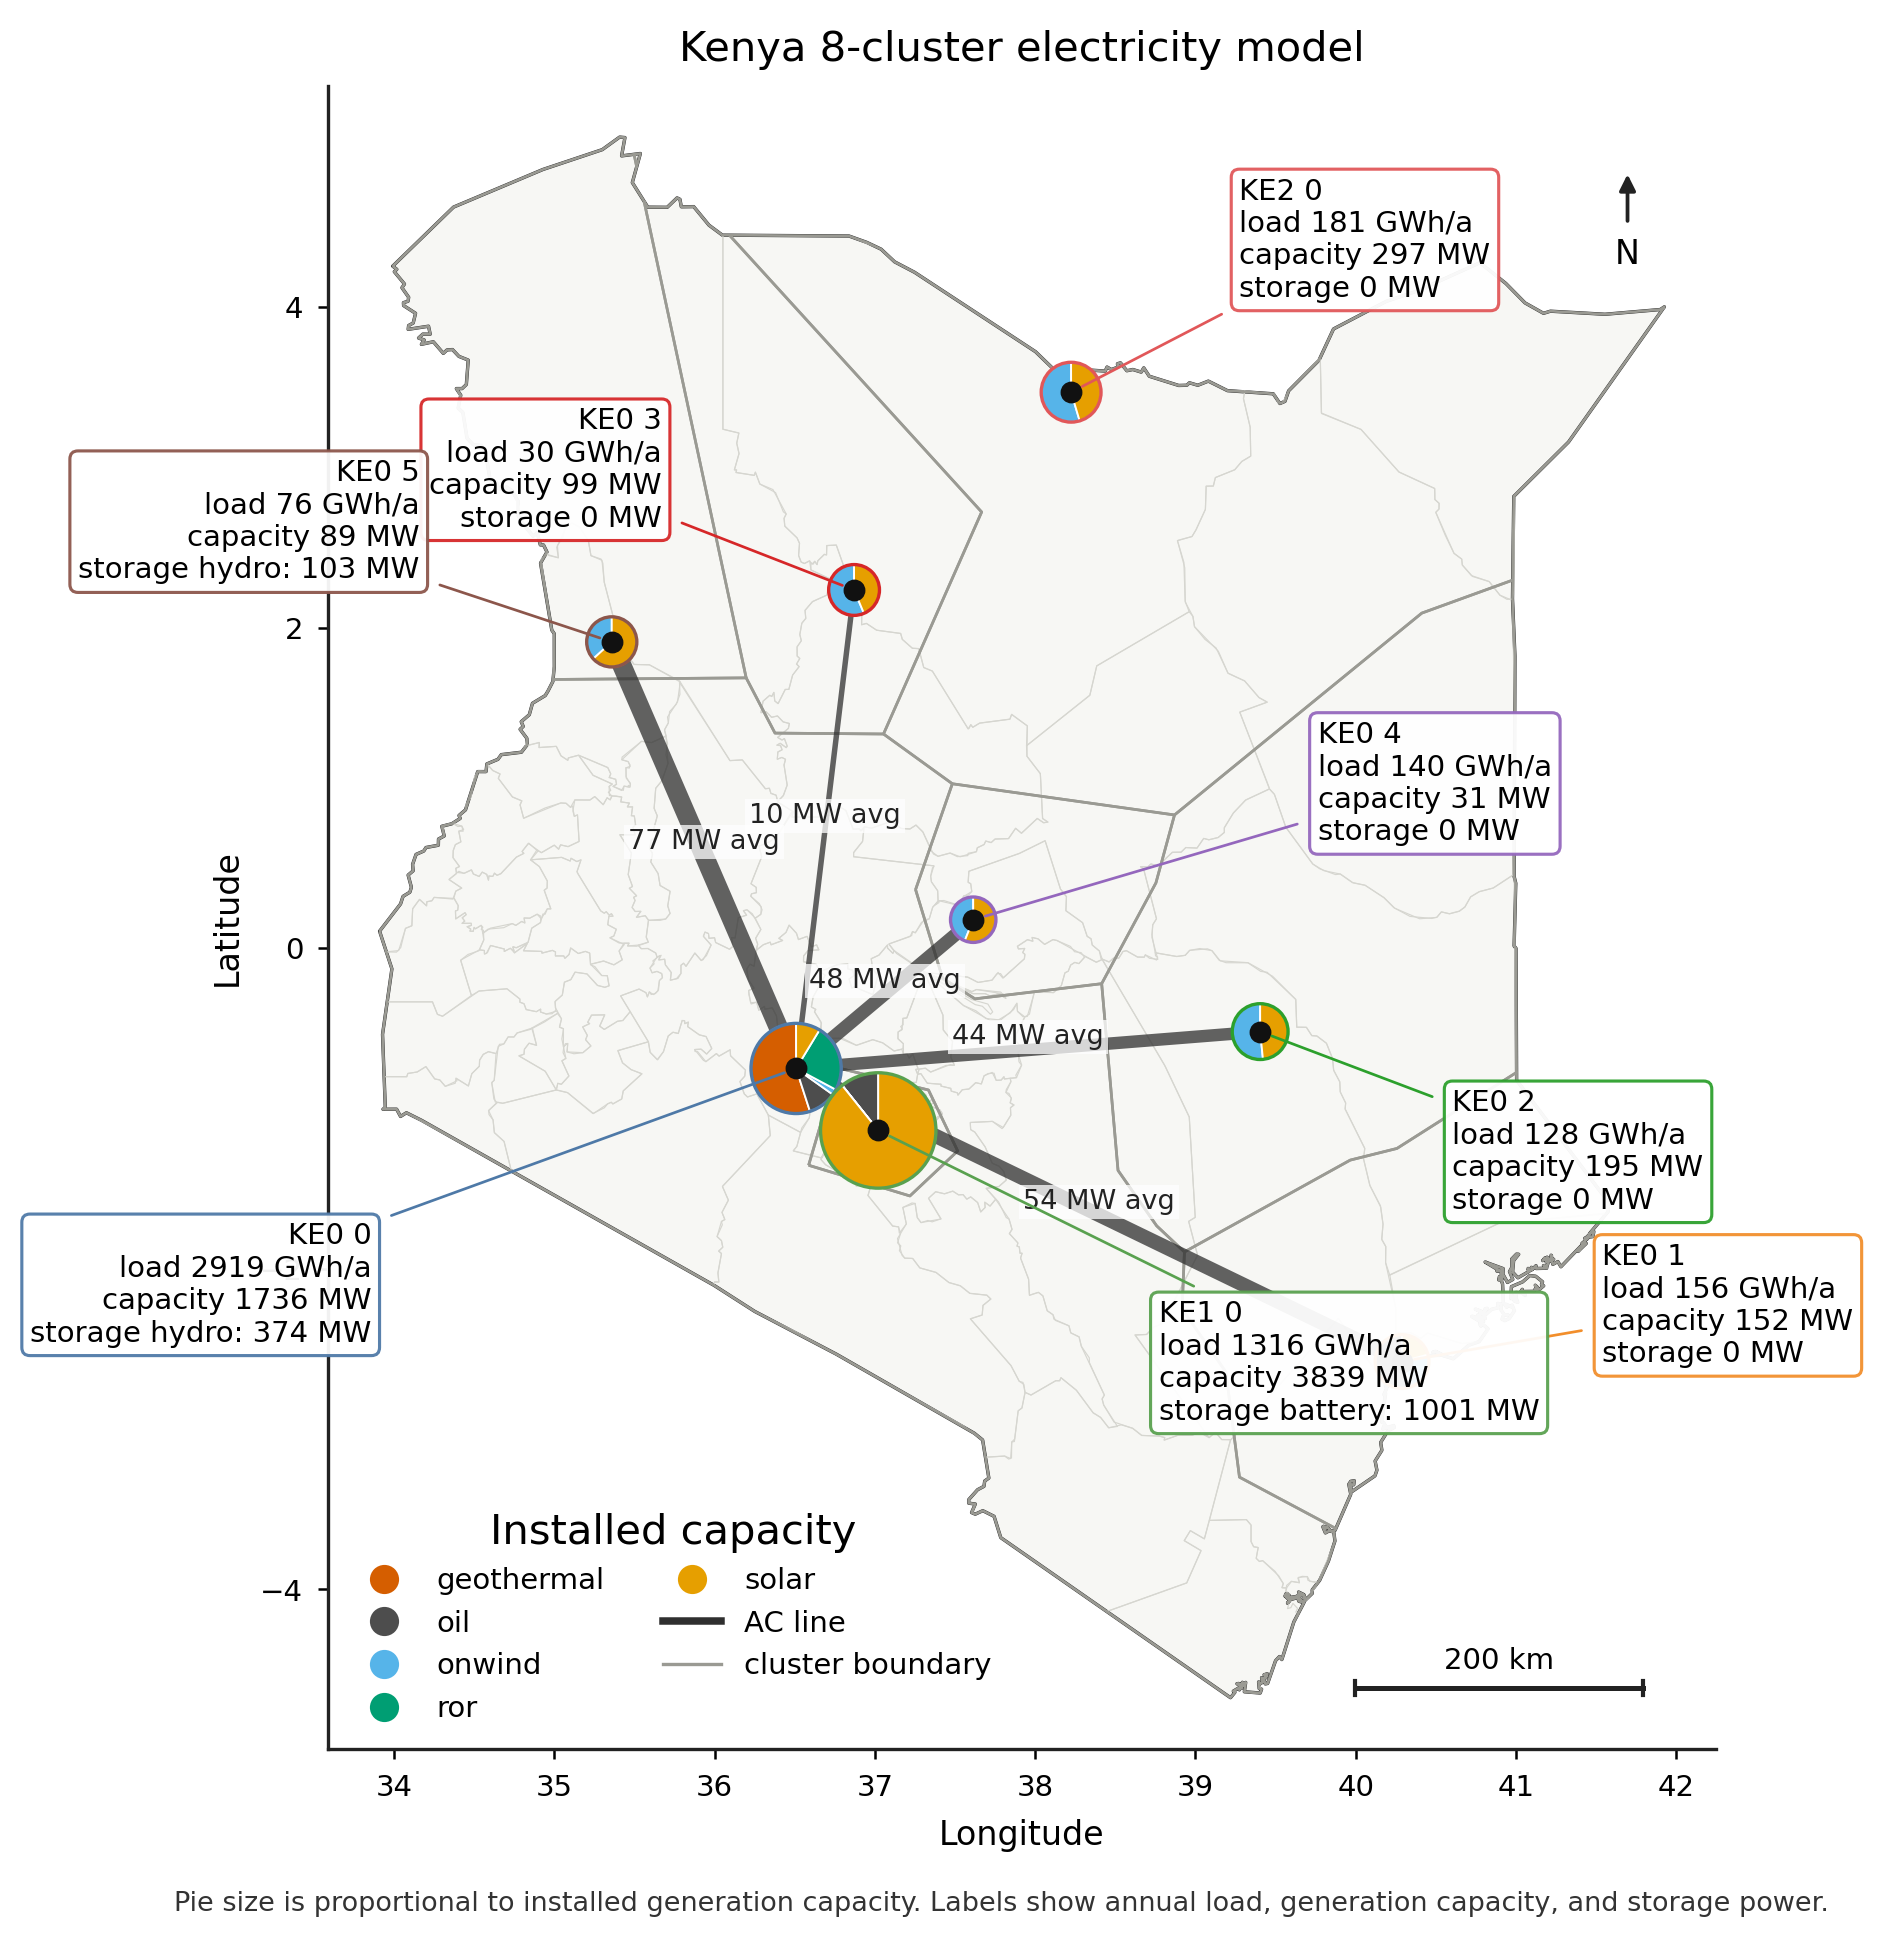
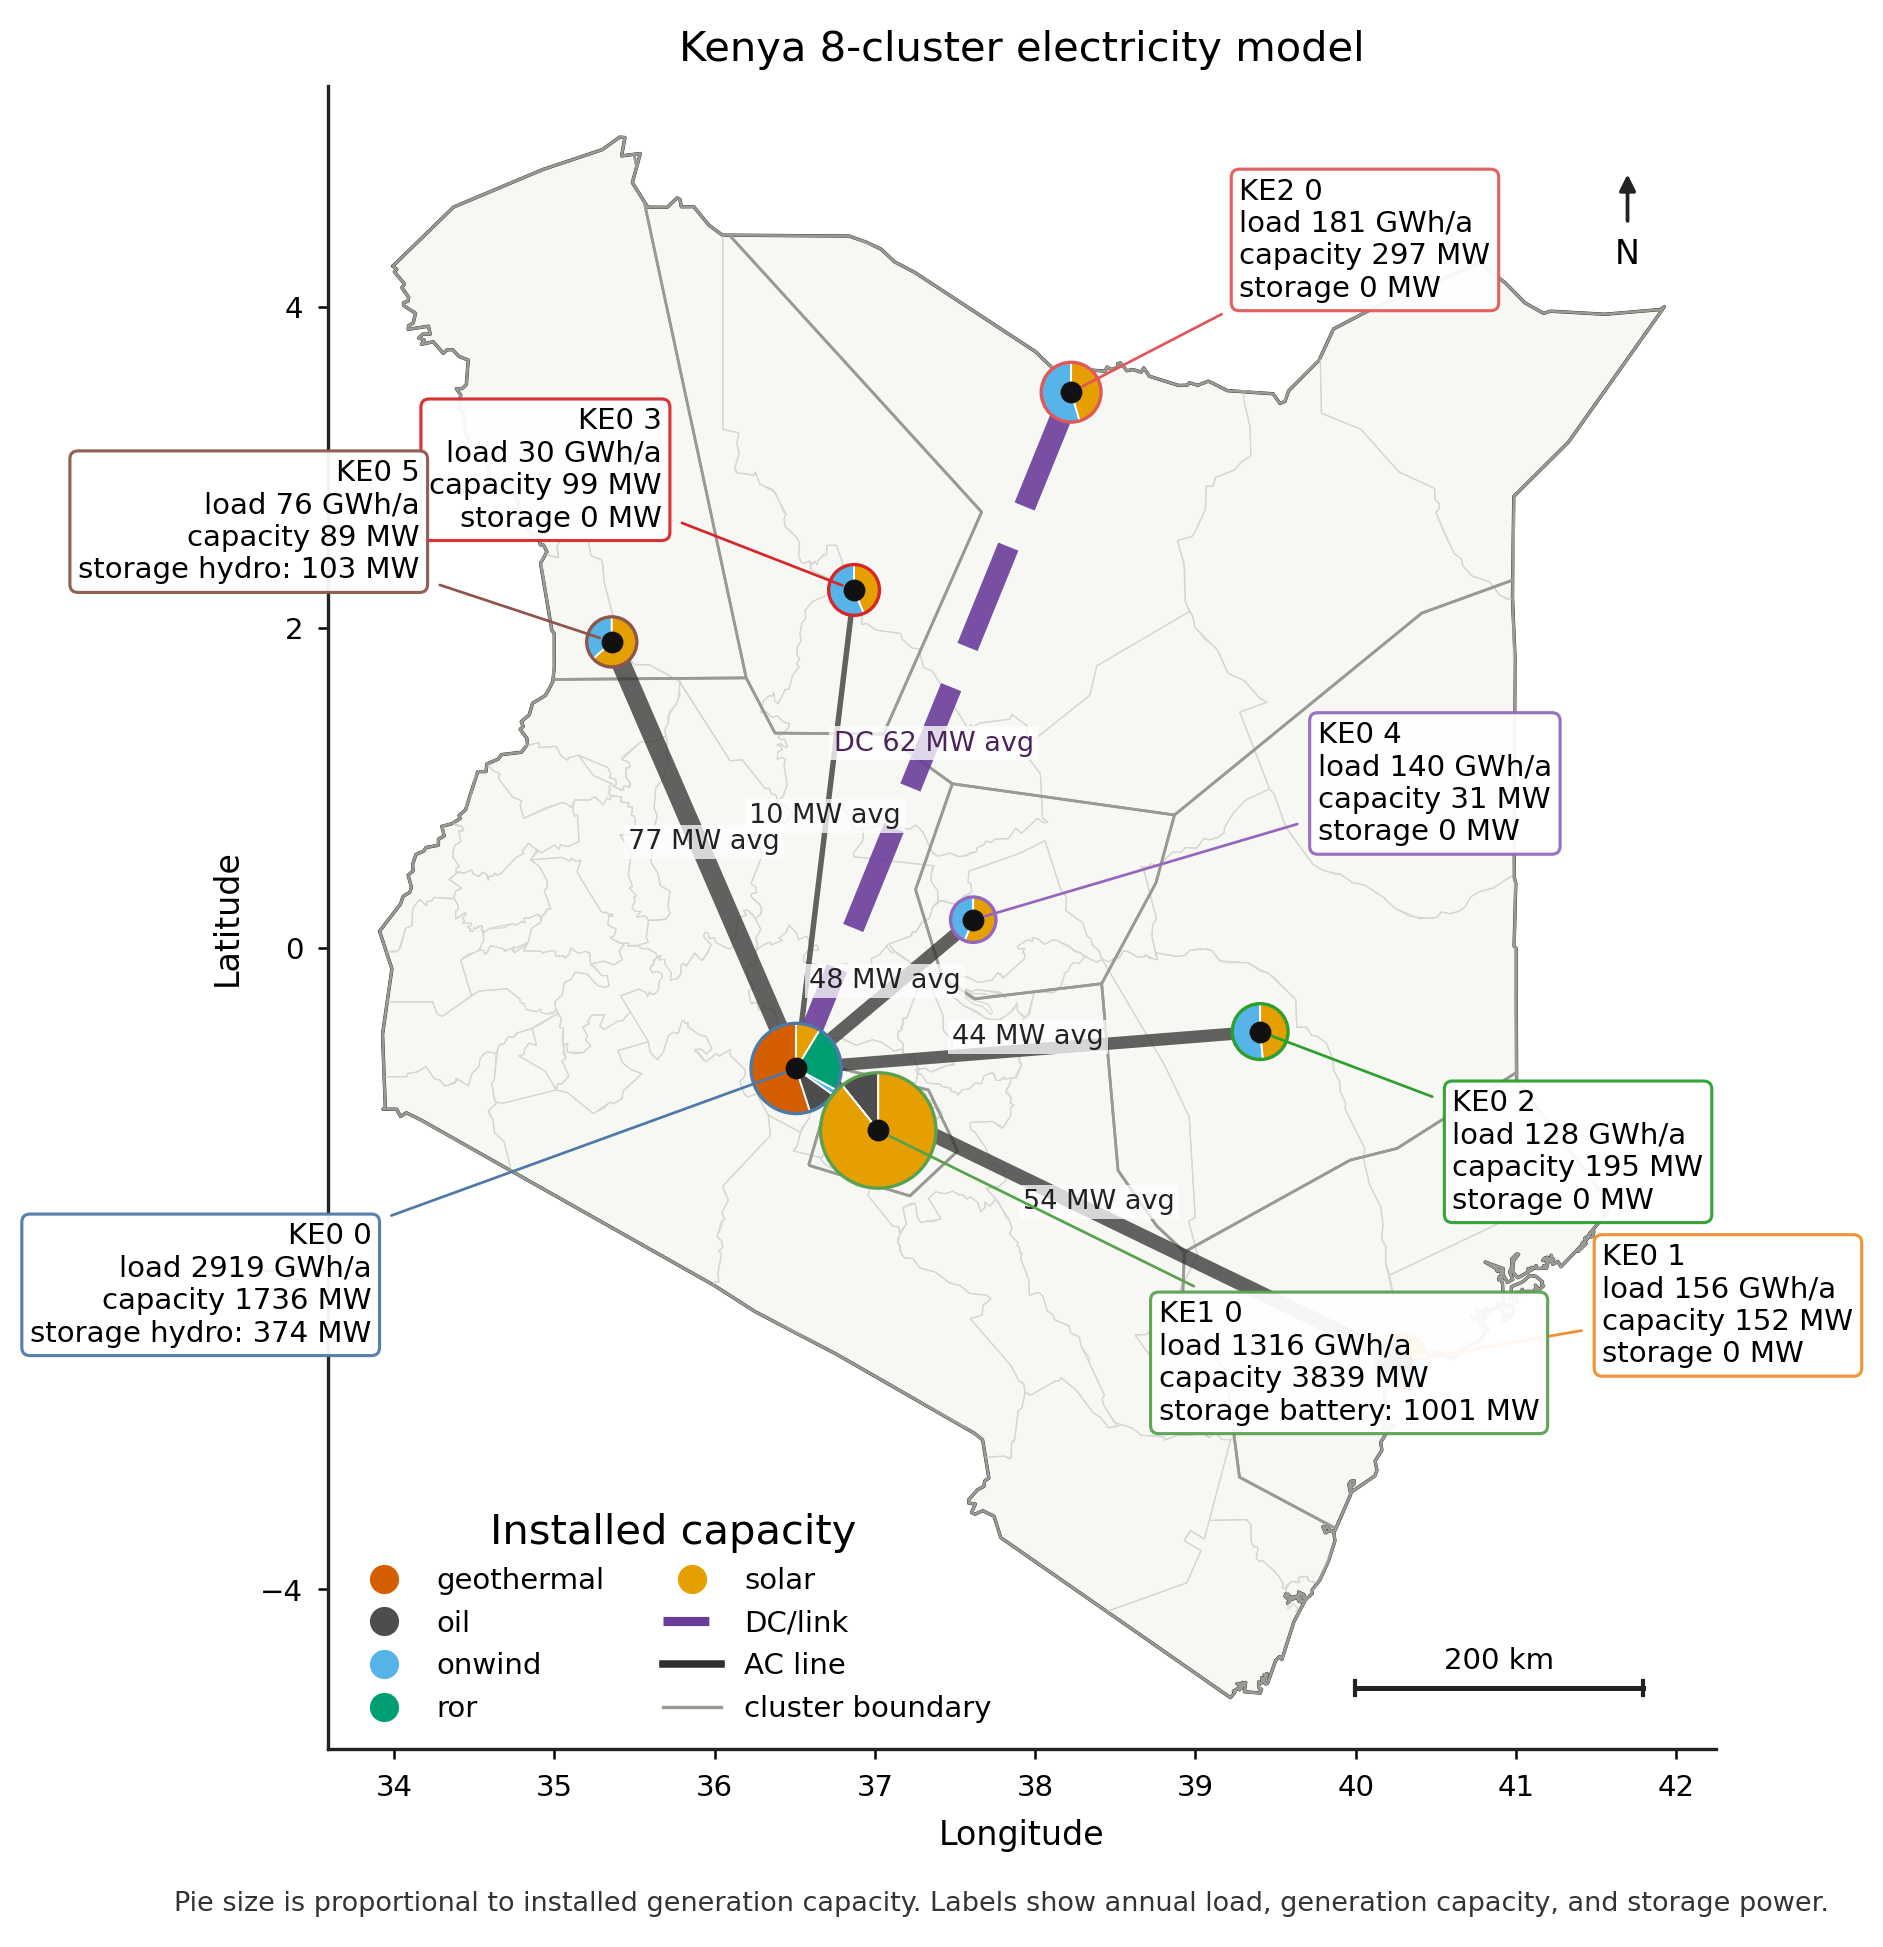
add DC, b2b, converter ac-dc, HVDC lines to plots

Changed region(s): [[0.4312, 0.3082, 0.5544, 0.5239], [0.3388, 0.832, 0.5236, 0.8937], [0.5236, 0.2157, 0.5852, 0.3082]]

diff --git a/scripts/plot_kenya_run_results.py b/scripts/plot_kenya_run_results.py
@@ -164,6 +164,14 @@ def generation_by_carrier(n: pypsa.Network) -> pd.Series:
     )
 
 
+def transmission_links(n: pypsa.Network) -> pd.DataFrame:
+    if n.links.empty or "carrier" not in n.links.columns:
+        return pd.DataFrame(index=n.links.index)
+    carriers = n.links.carrier.fillna("").astype(str).str.lower()
+    mask = carriers.isin({"dc", "b2b", "converter ac-dc", "hvdc"})
+    return n.links.loc[mask]
+
+
 def read_geodata(shapes_dir: Path, bus_regions_path: Path) -> tuple[gpd.GeoDataFrame, gpd.GeoDataFrame, gpd.GeoDataFrame]:
     country = gpd.read_file(shapes_dir / "country_shapes.geojson").to_crs("EPSG:4326")
     gadm = gpd.read_file(shapes_dir / "gadm_shapes.geojson").to_crs("EPSG:4326")
@@ -287,6 +295,40 @@ def plot_cluster_map(
                 zorder=9,
             )
 
+    links = transmission_links(n)
+    if not links.empty:
+        link_flows = (
+            n.links_t.p0[links.index].abs().mean()
+            if not n.links_t.p0.empty
+            else pd.Series(0, index=links.index)
+        )
+        max_link_flow = max(float(link_flows.max()), 1.0)
+        for link_name, link in links.iterrows():
+            b0 = n.buses.loc[link.bus0]
+            b1 = n.buses.loc[link.bus1]
+            flow = float(link_flows.get(link_name, 0.0))
+            width = 1.0 + 4.2 * flow / max_link_flow
+            ax.plot(
+                [b0.x, b1.x],
+                [b0.y, b1.y],
+                color="#6A3D9A",
+                linewidth=width,
+                alpha=0.9,
+                linestyle=(0, (5, 2)),
+                zorder=5,
+            )
+            ax.text(
+                (b0.x + b1.x) / 2,
+                (b0.y + b1.y) / 2,
+                f"{link.carrier} {flow:.0f} MW avg",
+                fontsize=6.5,
+                color="#4A235A",
+                ha="center",
+                va="top",
+                bbox={"facecolor": "white", "edgecolor": "none", "alpha": 0.78, "pad": 1.0},
+                zorder=9,
+            )
+
     bus_totals = cap.sum(axis=1) if not cap.empty else pd.Series(dtype=float)
     carriers = list(cap.columns)
 
@@ -370,6 +412,16 @@ def plot_cluster_map(
     ]
     line_handle = Line2D([0], [0], color="#2F2F2F", linewidth=1.8, label="AC line")
     region_handle = Line2D([0], [0], color="#9A9A93", linewidth=0.8, label="cluster boundary")
+    link_handle = Line2D(
+        [0],
+        [0],
+        color="#6A3D9A",
+        linewidth=2.2,
+        linestyle=(0, (5, 2)),
+        label="DC/link",
+    )
+    if not links.empty:
+        handles.append(link_handle)
     handles.extend([line_handle, region_handle])
 
     ax.legend(handles=handles, loc="lower left", frameon=False, ncol=2, title="Installed capacity")
